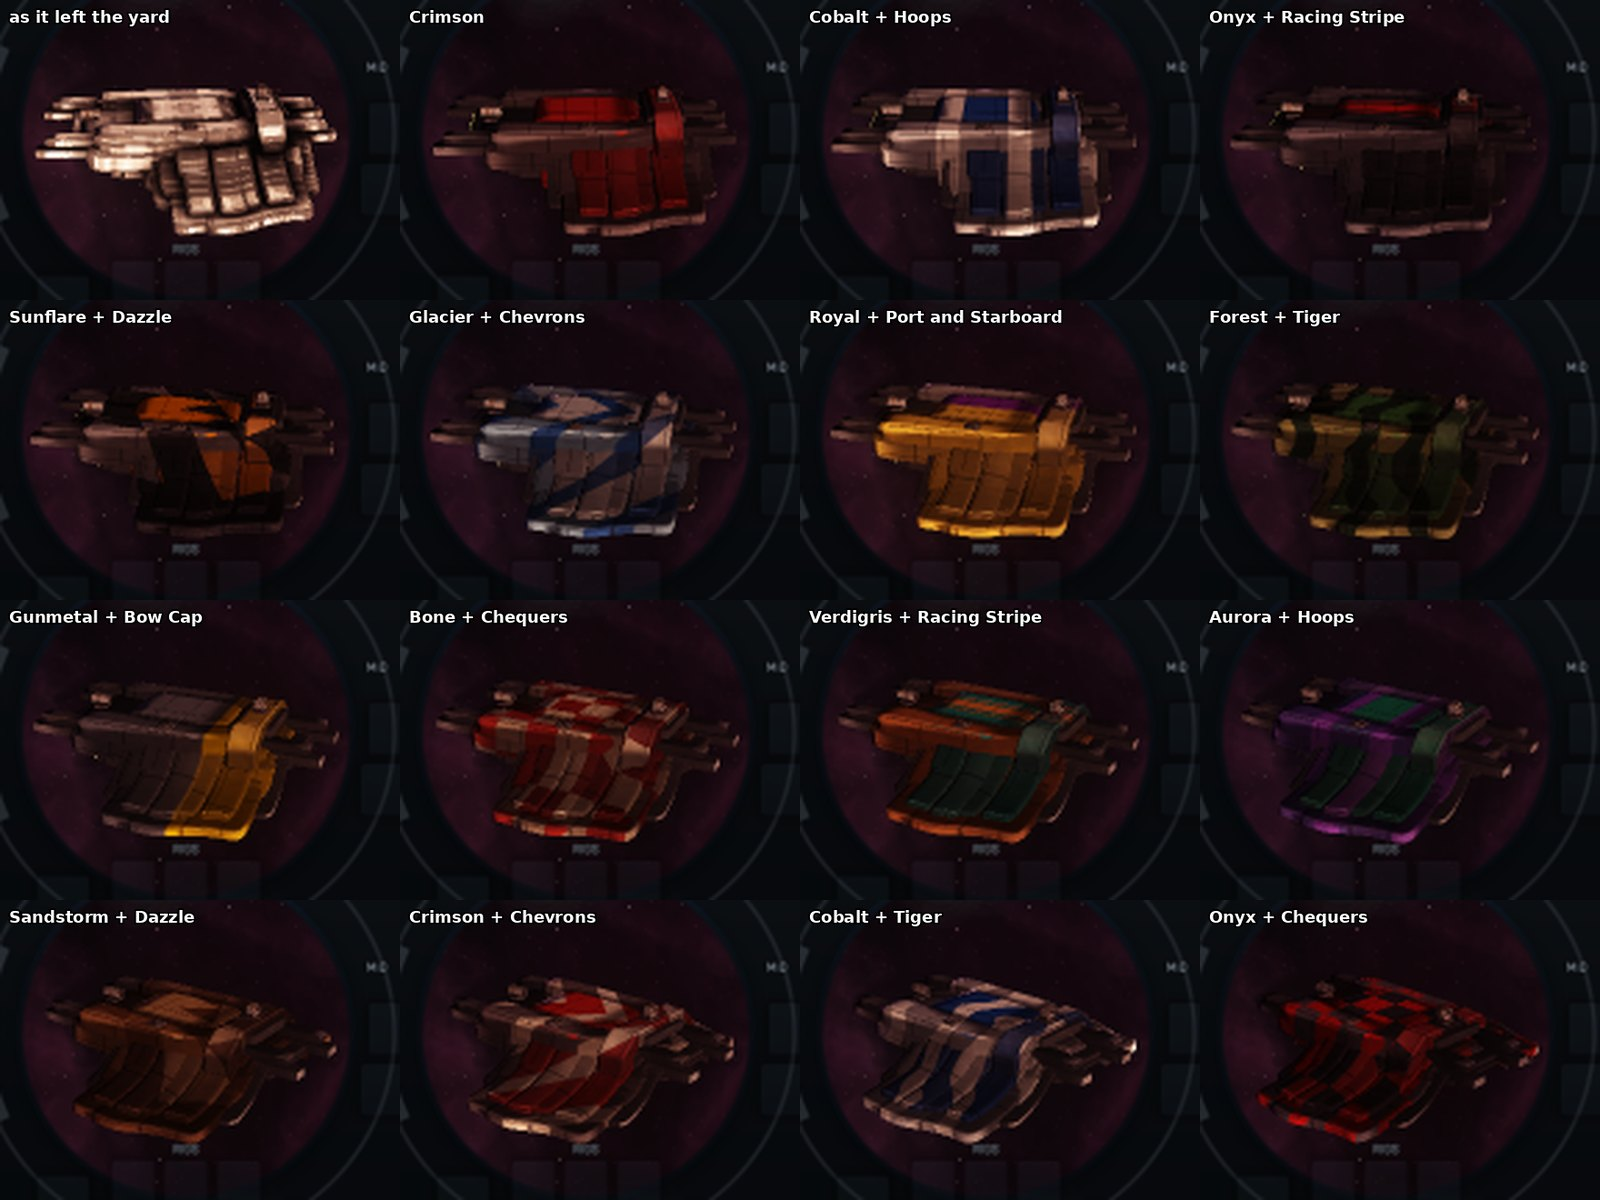
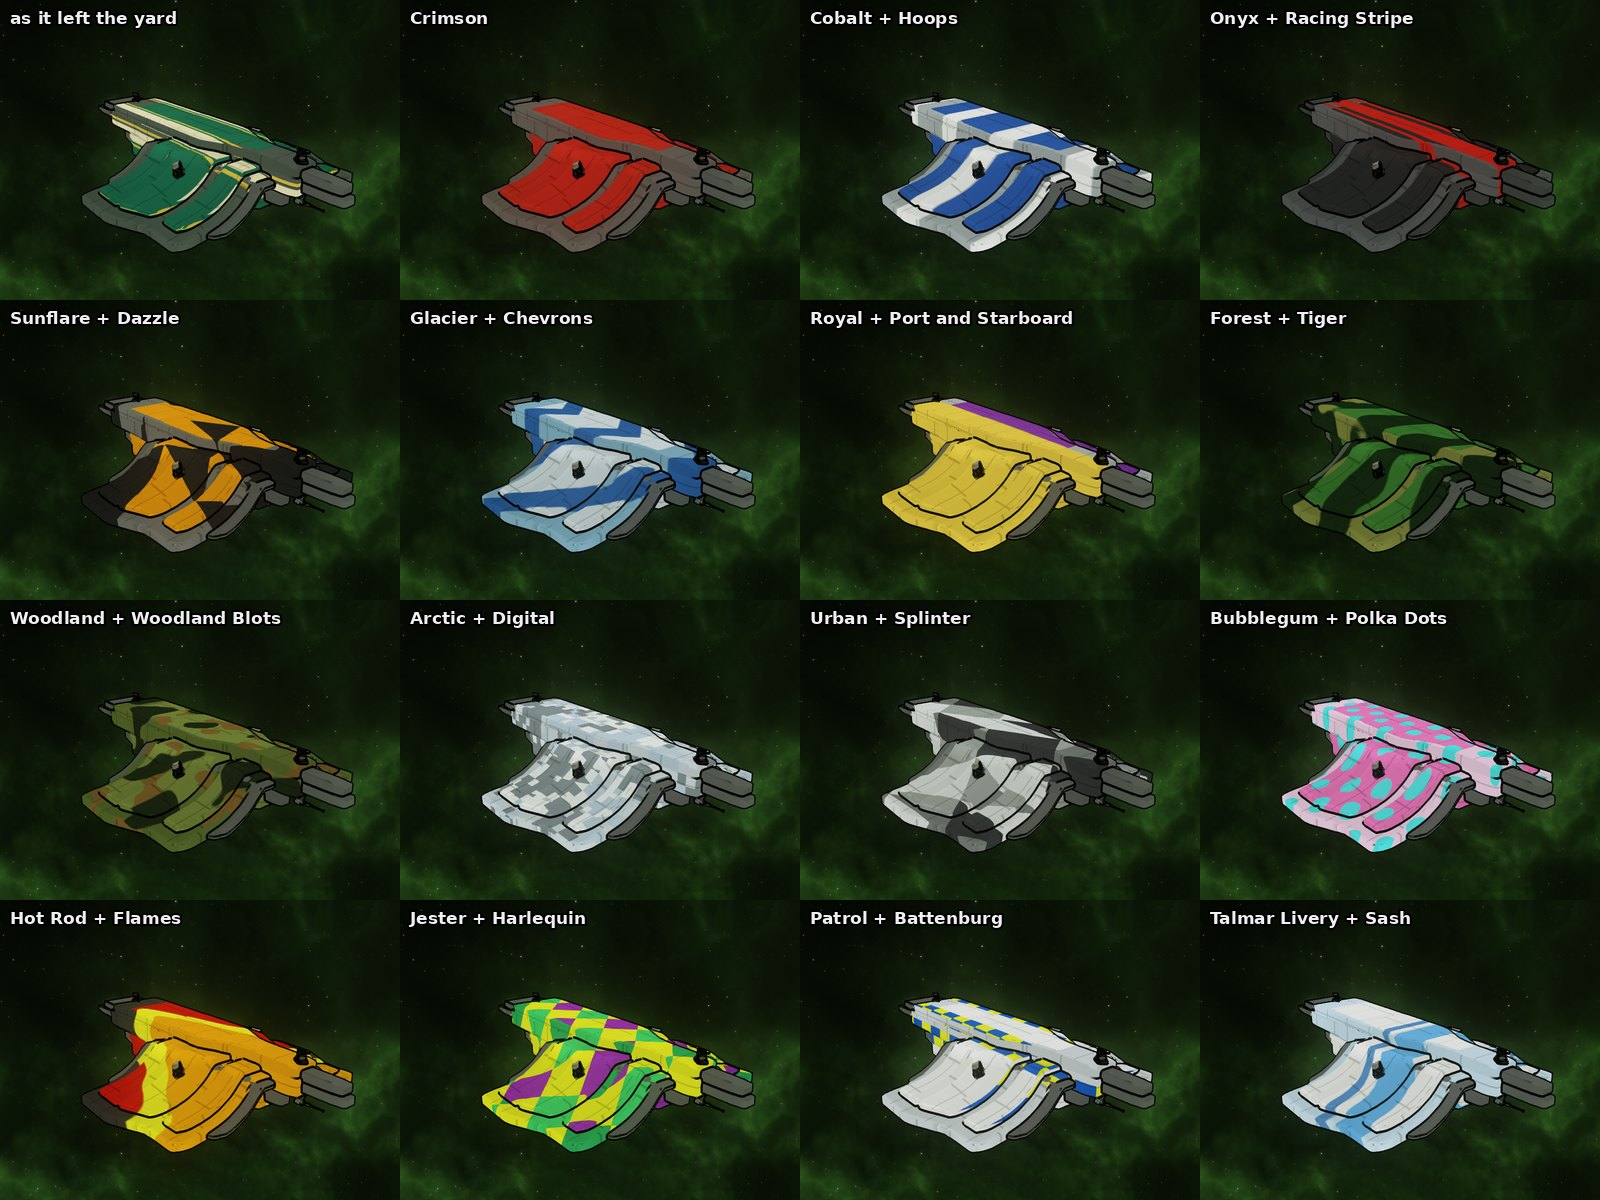
README: every picture taken again, in Cel V2
The owner, 2026-11-17: "please update all the images in the readme,
most of them are old", and "use cel v2 for all them". The fleet, the
station, the star map, the fitting and market windows as they are
now, a cruiser in sixteen coats (plain, camouflage, gaudy, police and a
livery), the two generator styles and the Vessari towers, all in the
Cel V2 look; the captions say so, and that the cel looks are for what
is built.

script/hulls takes "cel1" or "cel2" among its words to draw a sheet in
that look.

Claude-Session: https://claude.ai/code/session_015CkfPnrTGBpj63FtG1oQMR

diff --git a/README.md b/README.md
@@ -8,6 +8,8 @@ It is built on the old C++ Limit Theory engine, and it is a work in progress. Th
 
 ![The splash: a fleet in its livery, redrawn in the game's anime manner, behind the game's name](docs/screenshots/splash.jpg)
 
+*The pictures here are taken in the Cel V2 look.*
+
 | | |
 |---|---|
 | ![A battleship and its escorts in their paint](docs/screenshots/fleet-sunlit.jpg) | ![A station: its tower and the modules anchored round it](docs/screenshots/station.jpg) |
@@ -15,11 +17,11 @@ It is built on the old C++ Limit Theory engine, and it is a work in progress. Th
 | ![The star map of a six-hundred-system galaxy, coloured by who holds what](docs/screenshots/star-map.jpg) | ![The fitting screen, with the ship as it is in space](docs/screenshots/fitting.jpg) |
 | The star map: six hundred systems, coloured by who holds them | Fitting: the ship is shown as it is in space |
 | ![The market's paints, with a paint being looked at](docs/screenshots/market-paints.jpg) | ![One hull in sixteen paints and designs](docs/screenshots/paints.jpg) |
-| Paints and designs are bought on the market, and can be tried on first | One hull, sixteen coats |
+| Paints and designs are bought on the market, and can be tried on first | One cruiser, sixteen coats: plain, camouflage, gaudy, police and a livery |
 
 ![One battleship in the three looks: Standard, Cel V1 and Cel V2](docs/screenshots/looks.jpg)
 
-*One battleship in the three looks (Options, Graphics): Standard, and the two cel-shaded ones, Cel V1 over the worn paint and Cel V2 with the paint laid on flat.*
+*One battleship in the three looks (Options, Graphics): Standard, and the two cel-shaded ones, Cel V1 over the worn paint and Cel V2 with the paint laid on flat. The cel looks are for what is built (ships, stations, towers); rock, ice, planets and the sky stay as they are.*
 
 ## What is in the game
 
@@ -38,7 +40,7 @@ It is built on the old C++ Limit Theory engine, and it is a work in progress. Th
 
 ## The ship generator
 
-Most hulls in the game are grown from a seed by the engine's old ship generator, which has ten styles to grow them in, any of them with its two sides alike or not. `bin/launch hulls` goes through seeds by hand, and `script/hulls` makes sheets of them. The stations' towers are grown the same way, in eight styles of their own: `bin/launch towers` goes through those, and `script/towers` makes sheets of them.
+Most hulls in the game are grown from a seed by the engine's old ship generator, which has ten styles to grow them in, any of them with its two sides alike or not. `bin/launch hulls` goes through seeds by hand, and `script/hulls` makes sheets of them, in any of the looks. The stations' towers are grown the same way, in eight styles of their own: `bin/launch towers` goes through those, and `script/towers` makes sheets of them.
 
 | | |
 |---|---|
